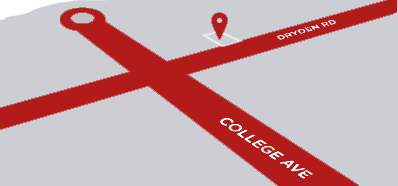
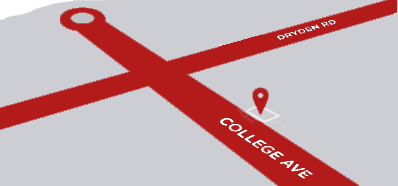
Update map and address in footer.

Changed region(s): [[0.603, 0.457, 0.7236, 0.672], [0.5126, 0.0538, 0.6633, 0.2688]]

diff --git a/index.html b/index.html
@@ -511,7 +511,7 @@
 						<h5>Location</h5>
 						<img src="images/map3.png">
 						<p>
-							206b Dryden Rd.
+							325 College Ave
 							<br />
 							Ithaca, NY
 							<br />
